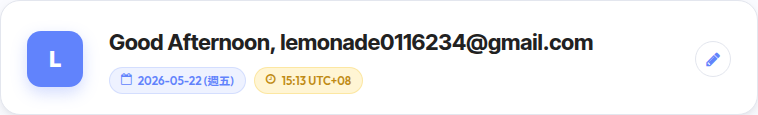
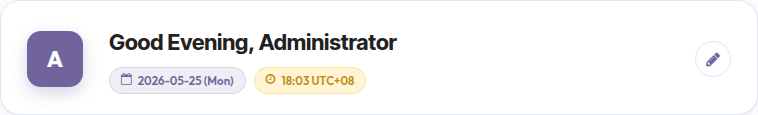
docs: update screenshots and add language switcher documentation for v18.0.2.1.0
Bump version to 18.0.2.1.0. Add portal language switcher feature
documentation to both English and Chinese READMEs. Update all
screenshots to reflect the new purple theme. Add new language
switcher screenshot.

diff --git a/woow_portal_ui/__manifest__.py b/woow_portal_ui/__manifest__.py
@@ -1,6 +1,6 @@
 {
     "name": "Woow Portal UI",
-    "version": "18.0.2.0.0",
+    "version": "18.0.2.1.0",
     "category": "Website",
     "summary": "Clean, minimal Portal UI enhancements",
     "description": """

diff --git a/README.md b/README.md
@@ -109,6 +109,13 @@
 - **Quick switch** — Backend users can quickly navigate to the portal view via a dedicated button
 - **Seamless transition** — Maintains user session across the switch
 
+### Portal Language Switcher
+- **Globe icon in user dropdown** — When multiple languages are installed, a language section appears in the portal user dropdown menu
+- **One-click switching** — Click any installed language to instantly switch the portal interface
+- **User preference persistence** — Language choice is saved to the user profile and respected on subsequent visits
+- **Smart redirect** — After switching, the user is redirected back to the same page with the new language applied
+- **Website-independent** — Uses `_frontend_pre_dispatch` to enforce user language preference without modifying website settings
+
 ### Portal Page Styling
 - **WoowTech design** — Restyle all portal pages with WoowTech brand identity (#71639e)
 - **RWD** — Responsive Web Design for all portal pages with mobile-optimized layouts
@@ -422,6 +429,13 @@ Real-time search filtering on the portal home page — type to instantly filter 
   <img src="docs/screenshots/13_search_filter.png" alt="Search Filter" width="720"/>
 </p>
 
+### Language Switcher
+Globe icon in the user dropdown menu allows switching between installed languages.
+
+<p align="center">
+  <img src="docs/screenshots/language-switcher.png" alt="Language Switcher" width="720"/>
+</p>
+
 ### Portal Page Styling
 
 #### Sales Orders List
@@ -541,6 +555,7 @@ This module has been comprehensively tested with **87 automated tests** across 1
 | `POST` | `/my/notification/mark_read` | Mark a single notification as read |
 | `POST` | `/my/notification/mark_all_read` | Mark all notifications as read |
 | `POST` | `/my/activity/done` | Complete an activity |
+| `GET` | `/my/set_lang/<lang_code>` | Switch portal language and redirect back |
 
 ### JavaScript Events
 
@@ -566,6 +581,13 @@ This module has been comprehensively tested with **87 automated tests** across 1
 ---
 
 ## Changelog
+
+### v18.0.2.1.0 (2026-05)
+- Portal language switcher in user dropdown menu (globe icon)
+- `/my/set_lang/<lang_code>` route for language switching
+- User language preference respected via `_frontend_pre_dispatch` override
+- Smart redirect strips old language prefix from URL after switch
+- Updated all screenshots with new purple theme
 
 ### v18.0.2.0.0 (2026-05)
 - Restyle all portal pages with WoowTech brand design

diff --git a/README_zh-TW.md b/README_zh-TW.md
@@ -109,6 +109,13 @@
 - **快速切換** — 後台使用者可透過專用按鈕快速導航至入口網站
 - **無縫轉換** — 切換過程中保持使用者工作階段
 
+### 入口網站語言切換
+- **使用者下拉選單中的地球圖示** — 當安裝多種語言時，入口網站使用者下拉選單中會顯示語言切換區塊
+- **一鍵切換** — 點擊任何已安裝的語言即可立即切換入口網站介面
+- **使用者偏好持久化** — 語言選擇會儲存至使用者設定，後續造訪時自動套用
+- **智慧重導向** — 切換後自動重導向回相同頁面，並套用新語言
+- **獨立於網站設定** — 使用 `_frontend_pre_dispatch` 強制套用使用者語言偏好，無需修改網站設定
+
 ### 入口頁面風格化
 - **WoowTech 設計** — 以 WoowTech 品牌風格重新設計所有入口頁面（#71639e）
 - **響應式設計** — 所有入口頁面支援響應式設計，手機端最佳化佈局
@@ -422,6 +429,13 @@ services:
   <img src="docs/screenshots/13_search_filter.png" alt="搜尋篩選" width="720"/>
 </p>
 
+### 語言切換器
+使用者下拉選單中的地球圖示，可在已安裝的語言間快速切換。
+
+<p align="center">
+  <img src="docs/screenshots/language-switcher.png" alt="語言切換器" width="720"/>
+</p>
+
 ### 入口頁面風格化
 
 #### 銷售訂單列表
@@ -541,6 +555,7 @@ services:
 | `POST` | `/my/notification/mark_read` | 標記單則通知為已讀 |
 | `POST` | `/my/notification/mark_all_read` | 全部標記為已讀 |
 | `POST` | `/my/activity/done` | 完成待辦活動 |
+| `GET` | `/my/set_lang/<lang_code>` | 切換入口網站語言並重導向 |
 
 ---
 
@@ -555,6 +570,13 @@ services:
 ---
 
 ## 版本紀錄
+
+### v18.0.2.1.0 (2026-05)
+- 入口網站使用者下拉選單新增語言切換器（地球圖示）
+- 新增 `/my/set_lang/<lang_code>` 路由用於語言切換
+- 透過 `_frontend_pre_dispatch` 覆寫尊重使用者語言偏好
+- 智慧重導向：切換語言後自動移除舊語言前綴
+- 更新所有截圖為新紫色主題
 
 ### v18.0.2.0.0 (2026-05)
 - 以 WoowTech 品牌風格重新設計所有入口頁面
